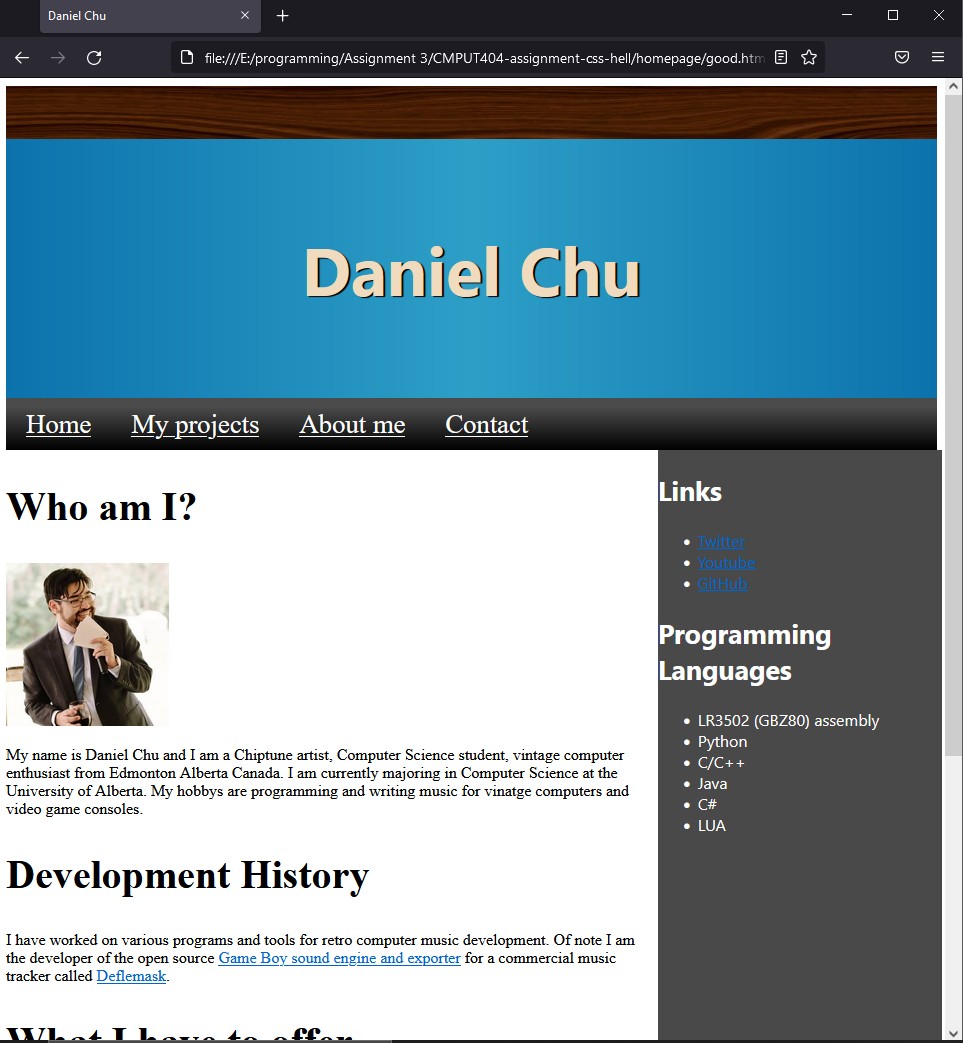
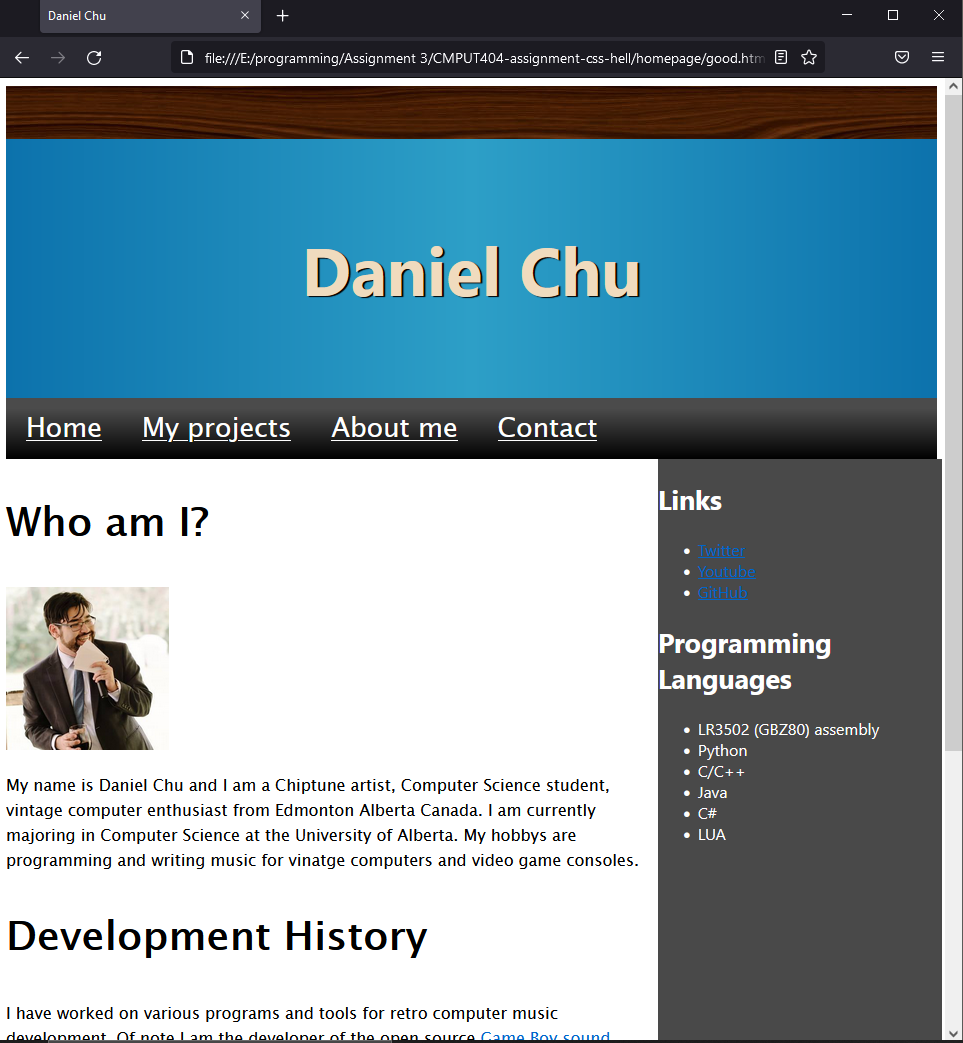
ugly added

Changed region(s): [[0.0, 0.3988, 0.9969, 1.0], [0.6854, 0.5216, 0.9346, 0.7977], [0.9969, 0.7057, 1.0, 0.7363]]

diff --git a/homepage/good.html b/homepage/good.html
@@ -31,7 +31,8 @@
                 height=auto />
             <p>My name is Daniel Chu and I am a Chiptune artist, Computer Science student, vintage computer enthusiast from Edmonton Alberta Canada. I am currently majoring in Computer Science at the University of Alberta. My hobbys are programming and writing music for vinatge computers and video game consoles.</p>
             <h2>Development History</h2>
-            <p>I have worked on various programs and tools for retro computer music development. Of note I am the developer of the open source <a href="https://github.com/Pegmode/Deflemask-GB-Engine">Game Boy sound engine and exporter</a> for a commercial music tracker called <a href="https://www.deflemask.com/">Deflemask</a>. </p>
+            <p>I have worked on various programs and tools for retro computer music development. Of note I am the developer of the open source <a href="https://github.com/Pegmode/Deflemask-GB-Engine">Game Boy sound engine and exporter</a> for a commercial music tracker called <a href="https://www.deflemask.com/">Deflemask</a>. I also 
+            won the <a href="https://www.ualberta.ca/student-innovation-centre/idea-fund.html">Univerty of Alberta Idea fund 2019 </a> for my <a href="https://github.com/Pegmode/GB2Twitter">Game Boy Twitter client </a> that works on actual hardware.</p>
             <h2>What I have to offer</h2>
             <p>I have experience in file format reverse engineering, low level programming, retro assembly development and retro video game music.</p>
 

diff --git a/homepage/ugly.html b/homepage/ugly.html
@@ -1,0 +1,37 @@
+<!DOCTYPE html>
+<html lang="en">
+<meta charset="UTF-8">
+<title>Daniel Chu</title>
+<meta name="viewport" content="width=device-width,initial-scale=1">
+<link rel="stylesheet" href="ugly.css">
+</head>
+<body>
+
+<div class = "header">
+    <h1> Welcome to my AWESOME site!!!!</h1>
+</div>
+
+<div class="content">
+ <h1>About me</h1>
+ <img src="who_that.jpg" 
+                width=25%
+                height=auto />
+ <p>I am a programmer and chiptune artist who is massively obsessed with Game Boys. No really, look at my collection. I really do own over 20. I'm actually missing a few in this image below!</p>
+ <img src="gameboy.jpg" 
+ width=25%
+ height=auto />
+ <p>In regards to programming I really like programming various things for the Nintendo Game Boy. </p>
+</div>
+
+<div class="navbar">
+    <h2> Links</h2>
+    <ul>
+        <li><a href="https://twitter.com/Pegmode2">Twitter</a></li>
+        <li><a href="https://www.youtube.com/channel/UCtQcrCQGT-pClAvZUDwagZA">Youtube</a></li>
+        <li><a href="https://github.com/Pegmode">GitHub</a></li>
+    
+    </ul>
+   </div>
+
+</body>
+</html>

diff --git a/homepage/ugly.css b/homepage/ugly.css
@@ -1,0 +1,32 @@
+
+body {
+    font-family: "Comic Sans MS", "Comic Sans", cursive;
+    background-image: url(kraftworkJP__BG.gif);
+    color: white;
+}
+
+
+.header{
+    background: rgb(4,4,4);
+background: linear-gradient(90deg, rgba(4,4,4,1) 0%, rgba(230,120,120,1) 42%, rgba(254,67,26,1) 69%, rgba(0,0,0,1) 100%);
+    overflow: hidden;
+    margin: 0;
+    padding: 30pt;
+    color:  black;
+
+}
+
+.content{
+    float: left;
+    width: 70%;
+    height: 100%
+}
+
+.navbar{
+
+    list-style-type: none;
+    margin: 0;
+    padding: 0;
+    overflow: hidden;
+    float: left;
+}

diff --git a/homepage/good.css b/homepage/good.css
@@ -1,5 +1,5 @@
 body{
-    font-family: "Times New Roman", Times, serif;
+    font-family: 'Lucida Sans', 'Lucida Sans Regular', 'Lucida Grande', 'Lucida Sans Unicode', Geneva, Verdana, sans-serif;
 
 }
 
